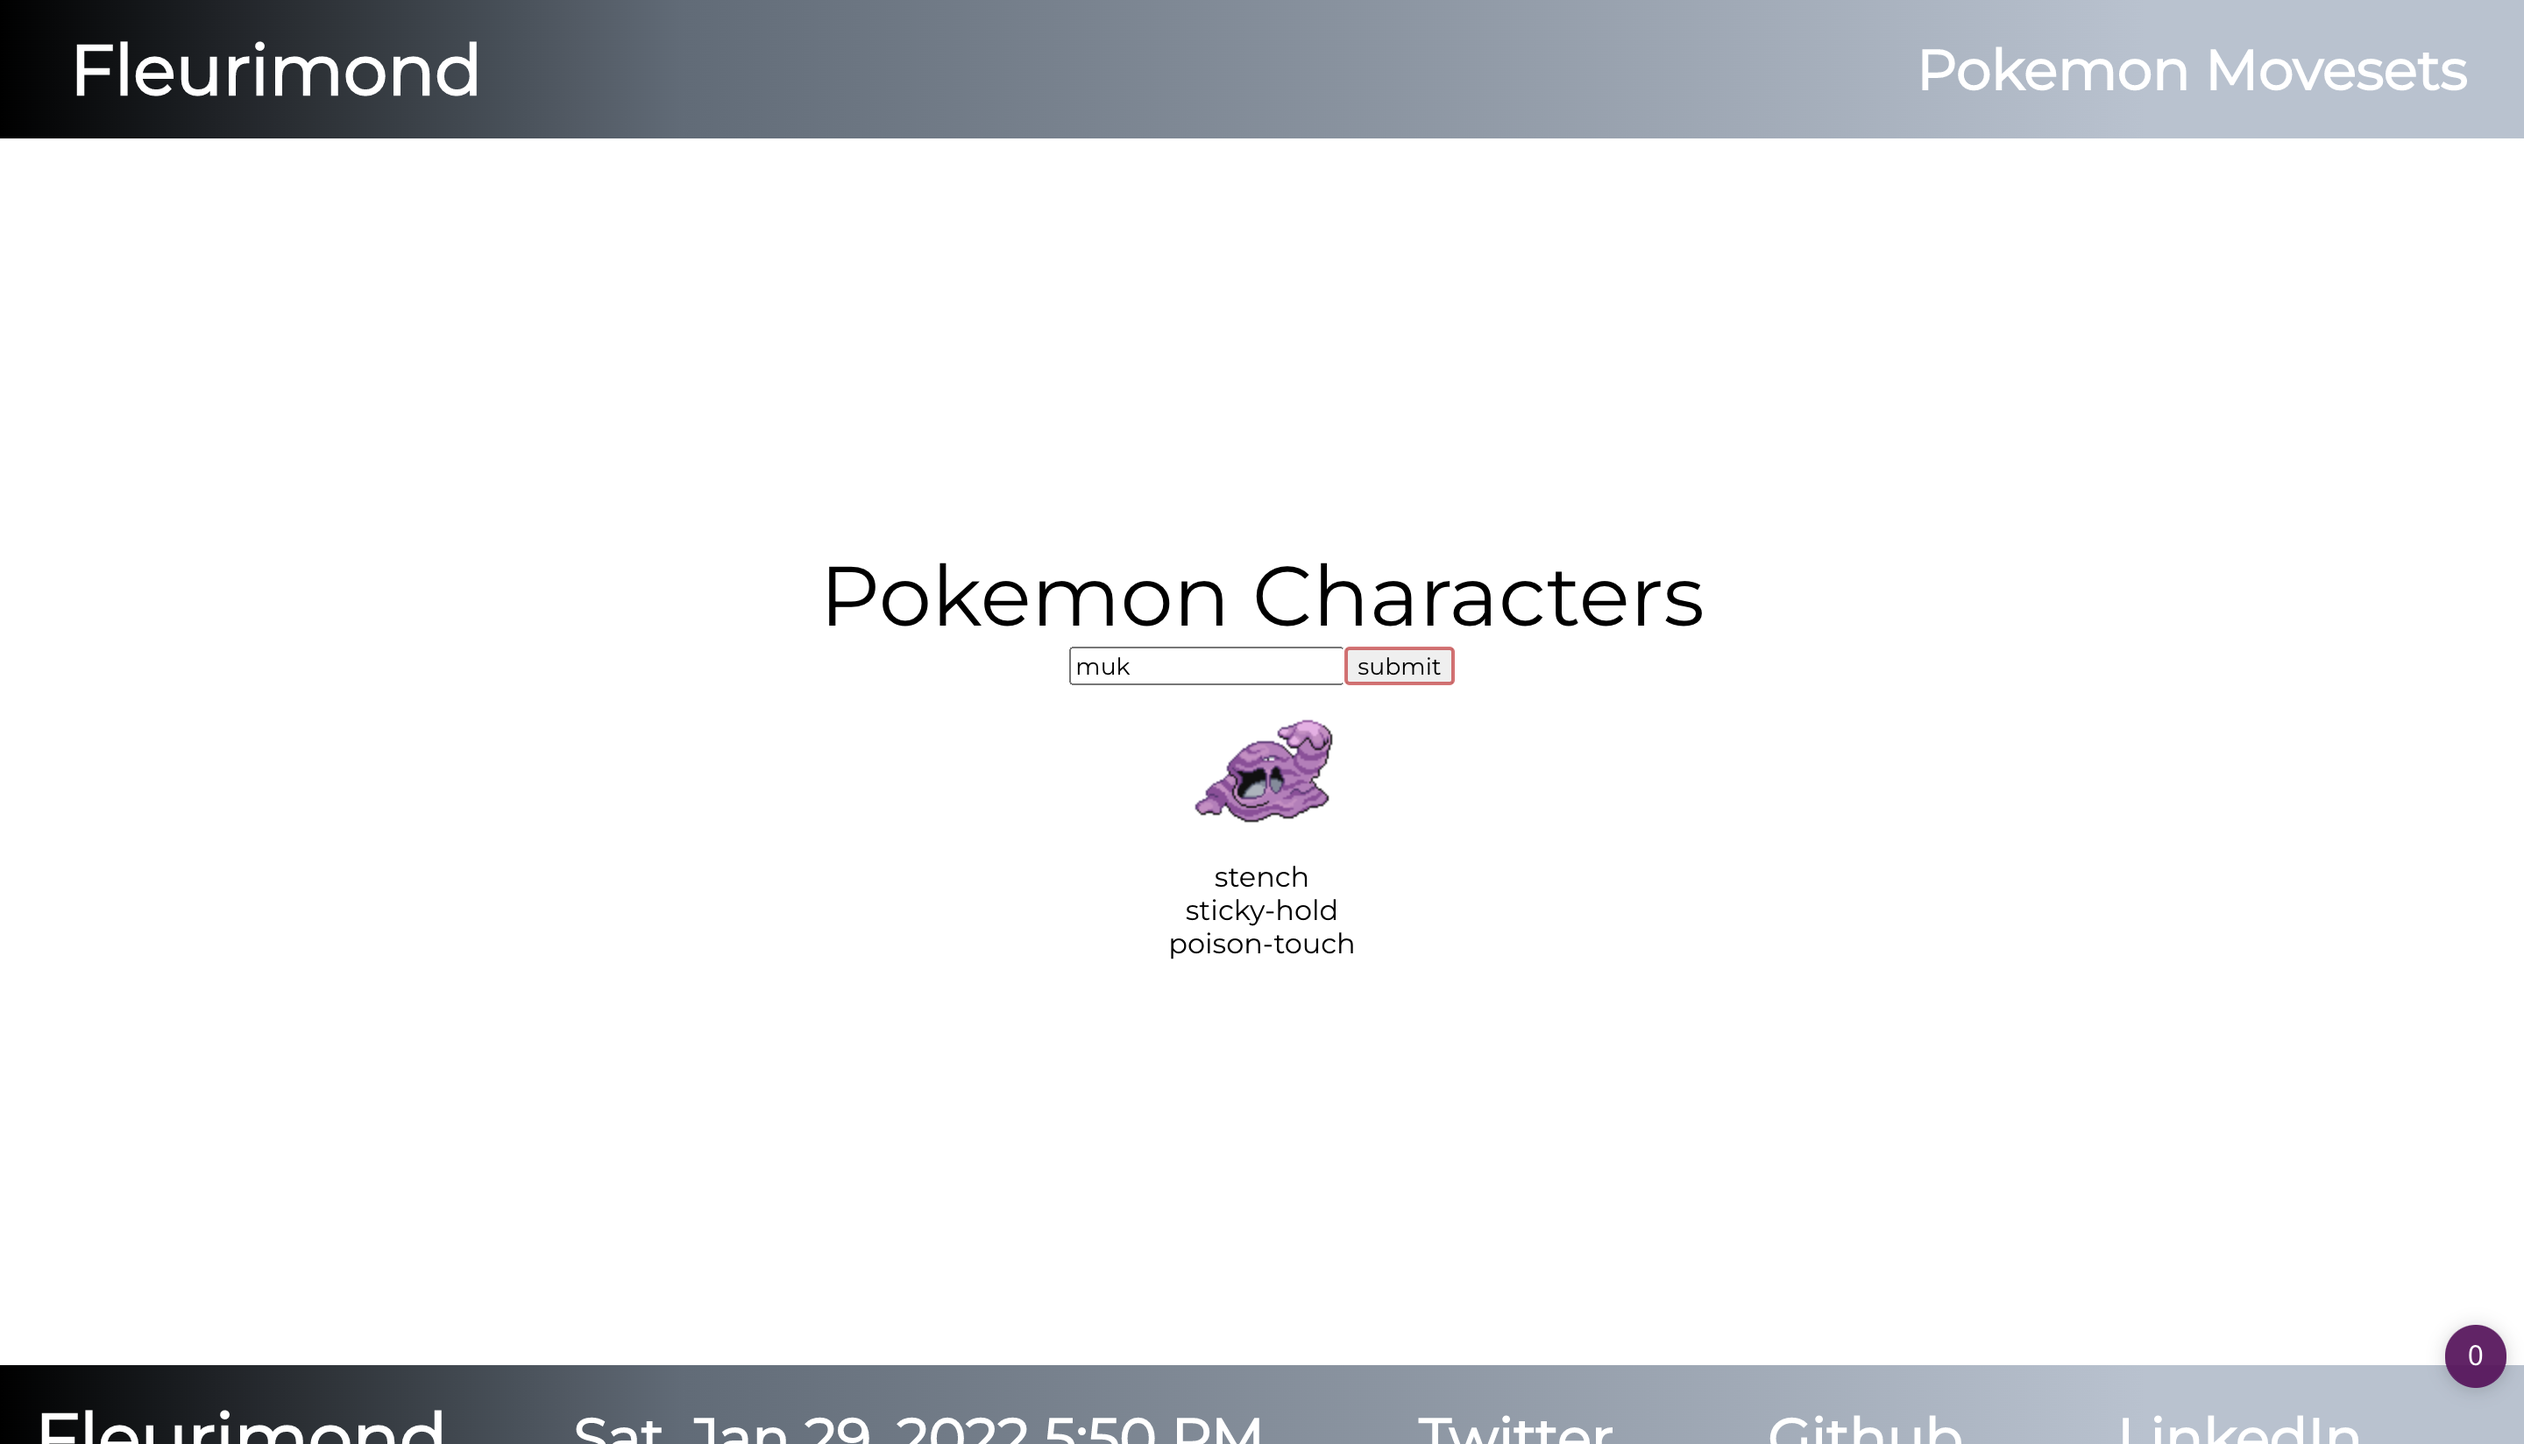
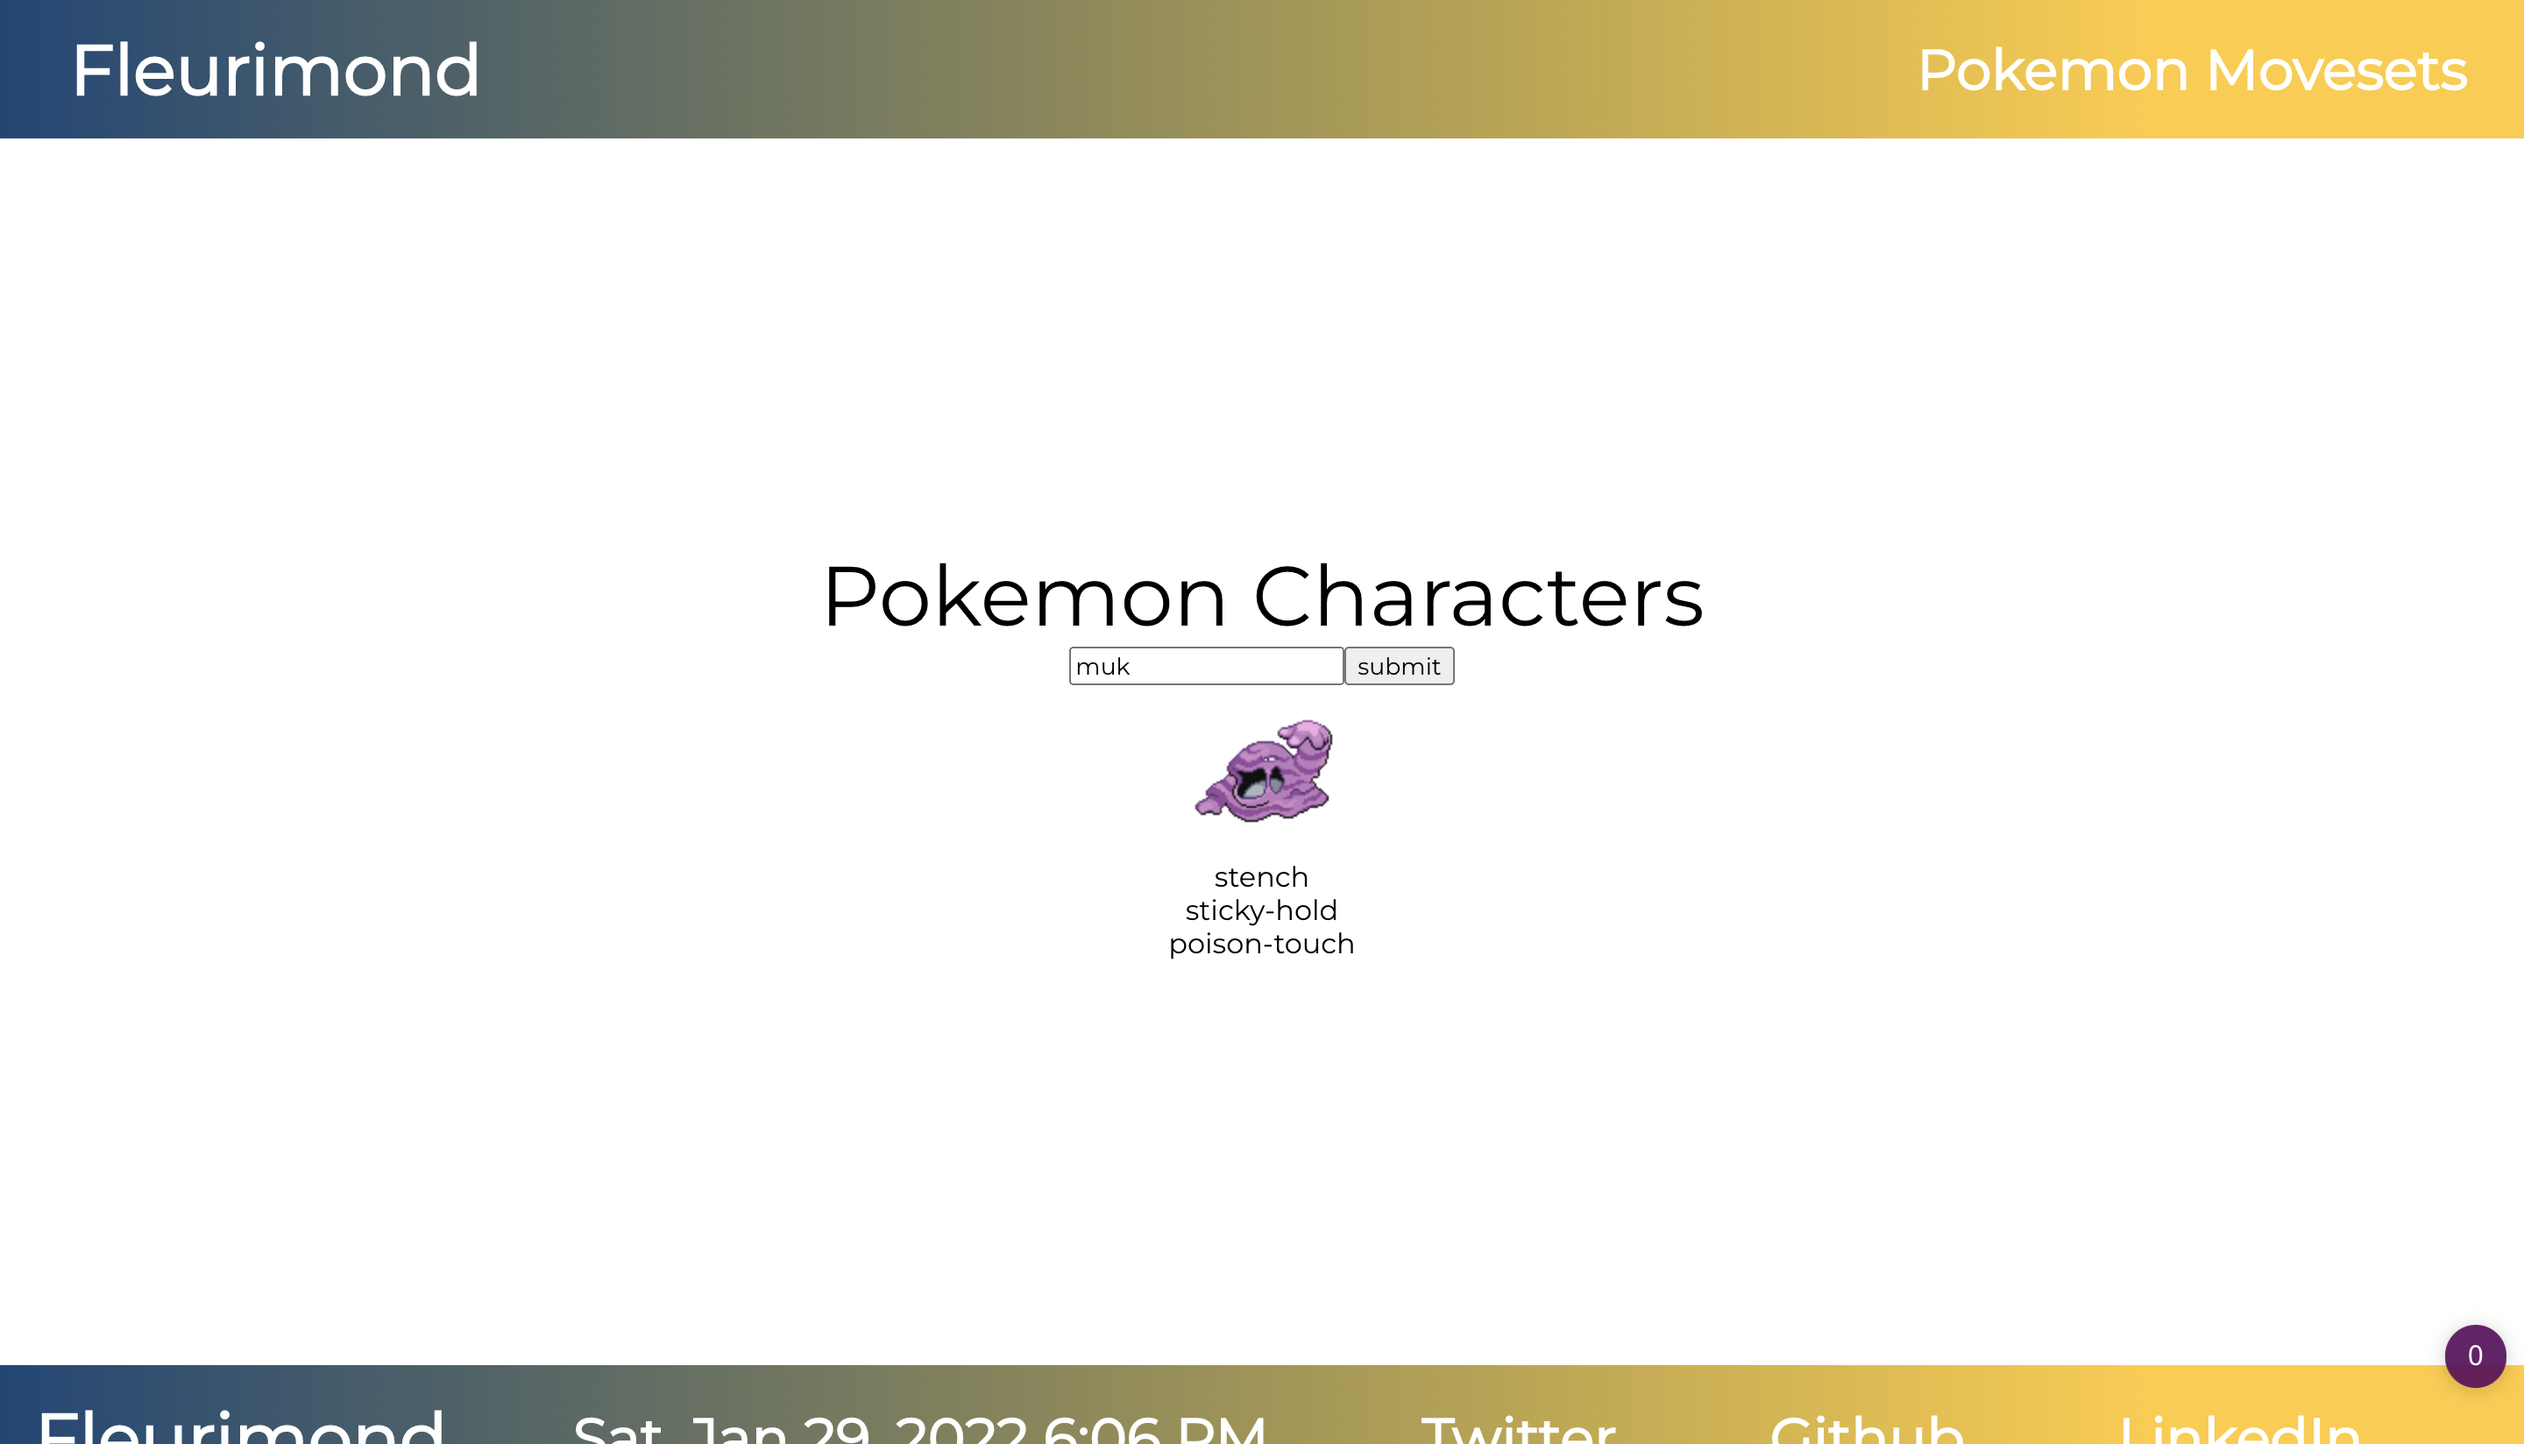
updated project sectionm

diff --git a/assets/src/Navbar/Nav.tsx b/assets/src/Navbar/Nav.tsx
@@ -15,9 +15,8 @@ export const Nav = styled.nav`
   height: 80px;
   background: linear-gradient(
     90deg,
-    ${fleurimondColors.black} 0%,
-    ${fleurimondColors.smoke} 27%,
-    ${fleurimondColors.graySmoke} 85%
+    ${fleurimondColors.buttons.blue} 0%,
+    ${fleurimondColors.leapingLemon} 85%
   );
   /* box-shadow: ${fleurimondColors.graySmoke} ; */
   box-shadow: 0px 2px 10px ${fleurimondColors.graySmoke};

diff --git a/assets/src/Footer/Footer.tsx b/assets/src/Footer/Footer.tsx
@@ -16,9 +16,8 @@ justify-content: center;
 font-size: 20px;
 background: linear-gradient(
   90deg,
-  ${fleurimondColors.black} 0%,
-  ${fleurimondColors.smoke} 27%,
-  ${fleurimondColors.graySmoke} 85%
+  ${fleurimondColors.buttons.blue} 0%,
+  ${fleurimondColors.leapingLemon} 85%
 );
 padding: 20px;
 `;
